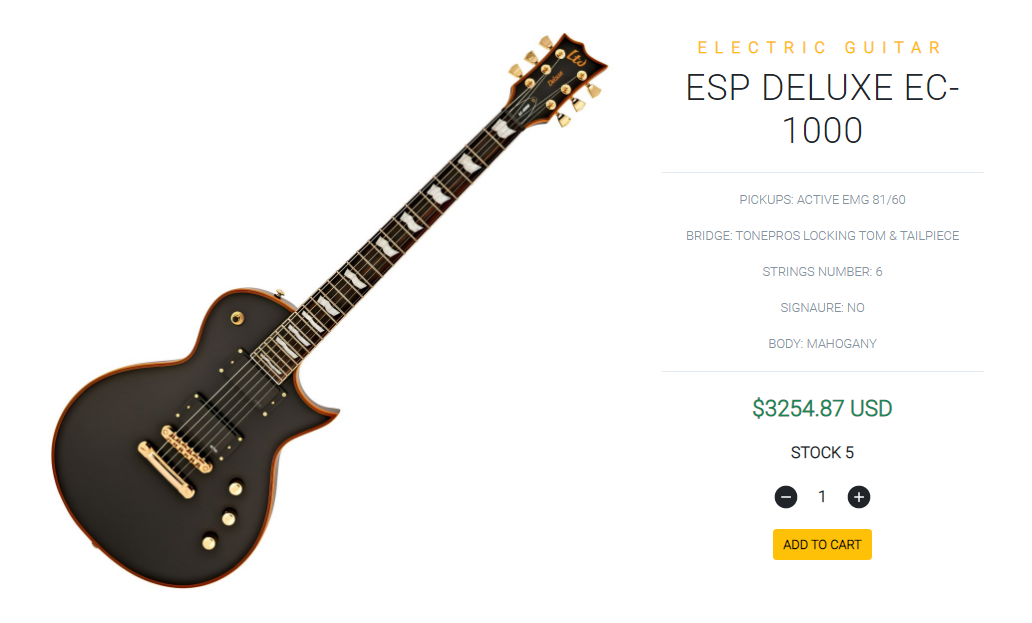
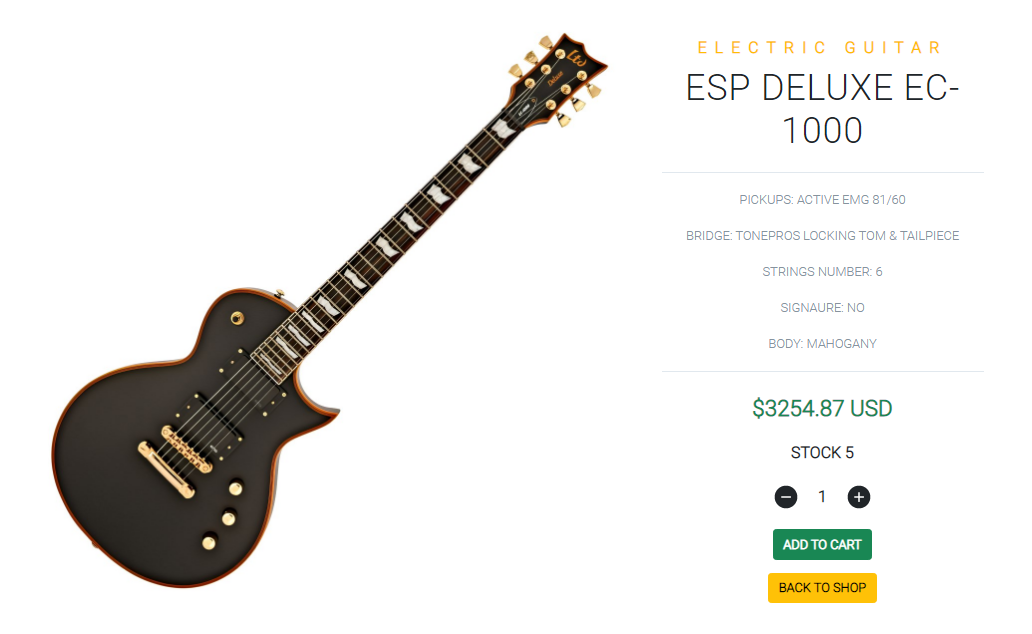
Proyecto Final

diff --git a/src/components/ItemCount/ItemCount.jsx b/src/components/ItemCount/ItemCount.jsx
@@ -1,9 +1,20 @@
-import React, { useState } from "react";
+import React, { useContext, useState } from "react";
 import { AiFillMinusCircle } from "react-icons/ai";
 import { AiFillPlusCircle } from "react-icons/ai";
+import { Link } from "react-router-dom";
+import { CartContext } from "../../context/CartProvider";
+import { isInCart } from "../../helpers"
 
-const ItemCount = ({ stock, initial, onAdd }) => {
+const ItemCount = ({ item, initial }) => {
+  const { items, addItem } = useContext(CartContext);
+  const { stock } = item;
+
   const [quantity, setQuantity] = useState(initial);
+
+  let product = item && {
+    ...item,
+    quantity,
+  };
 
   function subtractQuantity() {
     if (quantity > initial) {
@@ -18,31 +29,58 @@ const ItemCount = ({ stock, initial, onAdd }) => {
   }
 
   const addToCart = () => {
-    onAdd(quantity);
+    if (stock < 0 || quantity <= 0) return;
+    addItem(product)
   };
 
   return (
     <div>
-      <div className="d-flex mt-4 justify-content-center">
-        <AiFillMinusCircle
-          size="2rem"
-          cursor="pointer"
-          onClick={subtractQuantity}
-        />
-        <p className="mx-4 my-1 text-dark h3" style={{fontWeight: "bold"}}>{quantity}</p>
-        <AiFillPlusCircle
-          size="2rem"
-          cursor="pointer"
-          onClick={addQuantity}
-        />
-      </div>
-      <button
-        type="button"
-        className="btn btn-warning text-uppercase my-4 mb-5"
-        onClick={addToCart}
-      >
-        Add to cart
-      </button>
+      {!isInCart(items, item) ? (
+        <>
+          <div className="d-flex mt-4 justify-content-center">
+            <AiFillMinusCircle
+              size="2rem"
+              cursor="pointer"
+              onClick={subtractQuantity}
+            />
+            <p className="mx-4 my-1 text-dark h3" style={{fontWeight: "bold"}}>{quantity}</p>
+            <AiFillPlusCircle
+              size="2rem"
+              cursor="pointer"
+              onClick={addQuantity}
+            />
+          </div>
+          <button
+            type="button"
+            className="btn btn-success text-uppercase my-4 mb-3"
+            onClick={() => addToCart(product)}
+          >
+            Add to cart
+          </button>
+          <div className="mb-5">
+            <Link to="/" type="button" className="btn btn-warning text-uppercase">
+              Back to shop
+            </Link>
+          </div>
+        </>
+      ) : (
+        <div className="d-inline-flex flex-column">
+              <Link
+                to="/cart"
+                type="button"
+                className="btn btn-success text-uppercase my-2"
+              >
+                Go to cart
+              </Link>
+              <Link
+                to="/"
+                type="button"
+                className="btn btn-warning text-uppercase mt-2"
+              >
+                Continue shopping
+              </Link>
+            </div>
+      )}
     </div>
   );
 };

diff --git a/src/views/ItemDetail/ItemDetail.jsx b/src/views/ItemDetail/ItemDetail.jsx
@@ -1,18 +1,8 @@
-import React, { useContext, useState } from "react";
-import { Link } from "react-router-dom";
-import { CartContext } from "../../context/CartProvider";
+import React from "react";
 import ItemCount from "../../components/ItemCount/ItemCount";
 import "./ItemDetail.css";
 
 const ItemDetail = ({ item }) => {
-  const { addItem } = useContext(CartContext);
-
-  const [add, setAdd] = useState(false);
-
-  const onAdd = (quantity) => {
-    addItem(item, quantity);
-    setAdd(true);
-  };
 
   return (
     <div className="container">
@@ -40,31 +30,10 @@ const ItemDetail = ({ item }) => {
         <div className="d-block product-price">
           <span className="text-success">${item.price} USD</span>
           <p className="text-uppercase">Stock {item.stock}</p>
-          {!add ? (
             <ItemCount
               item={item}
-              stock={item.stock}
               initial={1}
-              onAdd={onAdd}
             />
-            ) : (
-            <div className="d-inline-flex flex-column">
-              <Link
-                to="/cart"
-                type="button"
-                className="btn btn-success text-uppercase my-2"
-              >
-                Go to cart
-              </Link>
-              <Link
-                to="/"
-                type="button"
-                className="btn btn-warning text-uppercase mt-2"
-              >
-                Continue shopping
-              </Link>
-            </div>
-          )}
         </div>
       </div>
     </div>

diff --git a/src/context/CartProvider.jsx b/src/context/CartProvider.jsx
@@ -1,34 +1,16 @@
 import React, { createContext, useState } from "react";
+import { isInCart, unifyItems } from "../helpers";
 export const CartContext = createContext("");
 
 const CartProvider = ({ children }) => {
   const [items, setItems] = useState([]);
 
-  const isInCart = (id) => {
-    const foundItem = items.find((item) => item.id === Number(id));
-    return foundItem;
-  };
-
-  const addItem = (item, quantity) => {
-    isInCart(item.id)
-      ? setItems(
-          items.map((element) => {
-            if (element.id === item.id) {
-              element.quantity += quantity;
-            }
-            return element;
-          })
-        )
-      : setItems([
-          ...items,
-          {
-            id: item.id,
-            brand: item.brand,
-            model: item.model,
-            price: item.price,
-            quantity: quantity,
-          },
-        ]);
+  const addItem = (item) => {
+    if (isInCart(items, item)) {
+      setItems(unifyItems(items, item));
+      return;
+    }
+    setItems([...items, item]);
   };
 
   const removeItem = (id) => {

diff --git a/src/components/NavBar/NavBar.jsx b/src/components/NavBar/NavBar.jsx
@@ -75,7 +75,7 @@ const NavBar = () => {
               </NavLink>
             </li>
           </ul>
-          <div className="margin-search">
+          {/* <div className="margin-search">
             <form className="d-flex mx-0">
               <input
                 className="form-control me-2"
@@ -87,7 +87,7 @@ const NavBar = () => {
                 Search
               </button>
             </form>
-          </div>
+          </div> */}
           <div className="margin-cart d-flex justify-content-center">
             <CartWidget />
           </div>

diff --git a/src/components/NavBar/NavBar.css b/src/components/NavBar/NavBar.css
@@ -37,17 +37,17 @@ input[type="search"]::-webkit-search-cancel-button {
   cursor: pointer;
 }
 
-.margin-search {
-  margin-right: -20px;
-}
+/* .margin-search {
+  margin-right: -30px;
+} */
 
 .margin-cart {
   margin-right: 5px;
   margin-left: 28px;
 }
 
-@media (max-width: 535px) {
+/* @media (max-width: 535px) {
   .margin-search {
     margin-right: -5px;
   }
-}
+} */

diff --git a/src/helpers/index.jsx b/src/helpers/index.jsx
@@ -1,0 +1,13 @@
+export const isInCart = (items, item) => {
+    return items.some((element) => element.id === item.id)
+};
+
+export const unifyItems = (items, item) => {
+    return items.map((element) => {
+        if(element.id === item.id) {
+        element.quantity = item.quantity;
+        element.stock = item.stock;
+    }
+    return element;
+    })
+};

diff --git a/src/views/ItemDetail/ItemDetail.css b/src/views/ItemDetail/ItemDetail.css
@@ -133,7 +133,7 @@ body {
   .left-column img {
     position: relative;
     width: 320px;
-    top: 28%;
+    top: 22%;
     left: 20px;
   }
 
